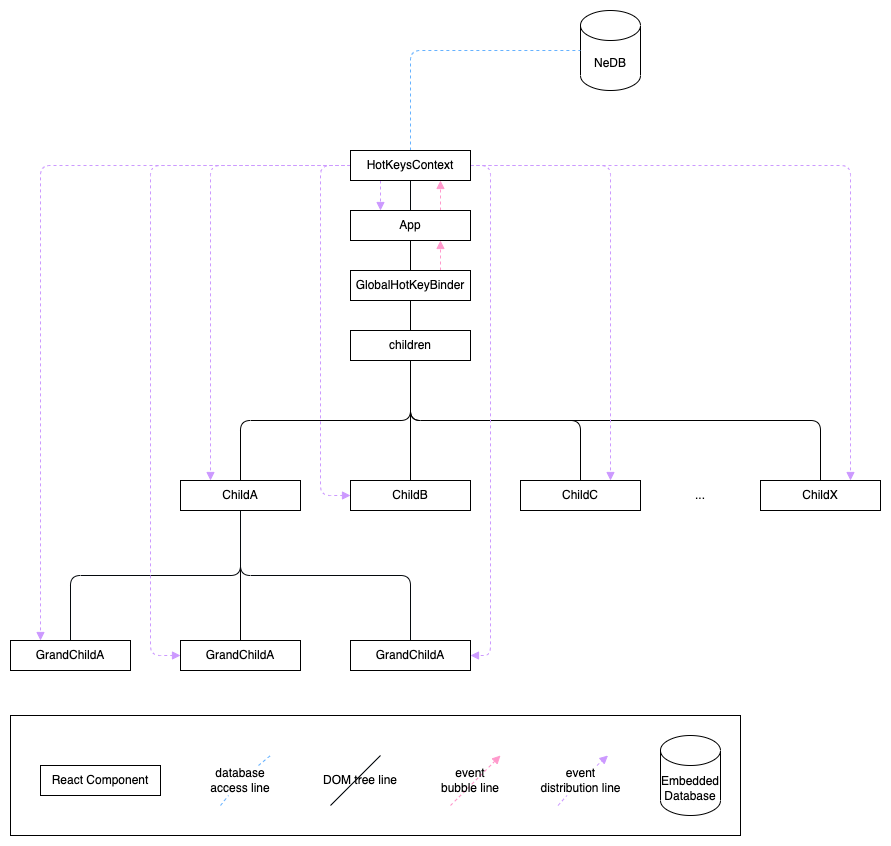
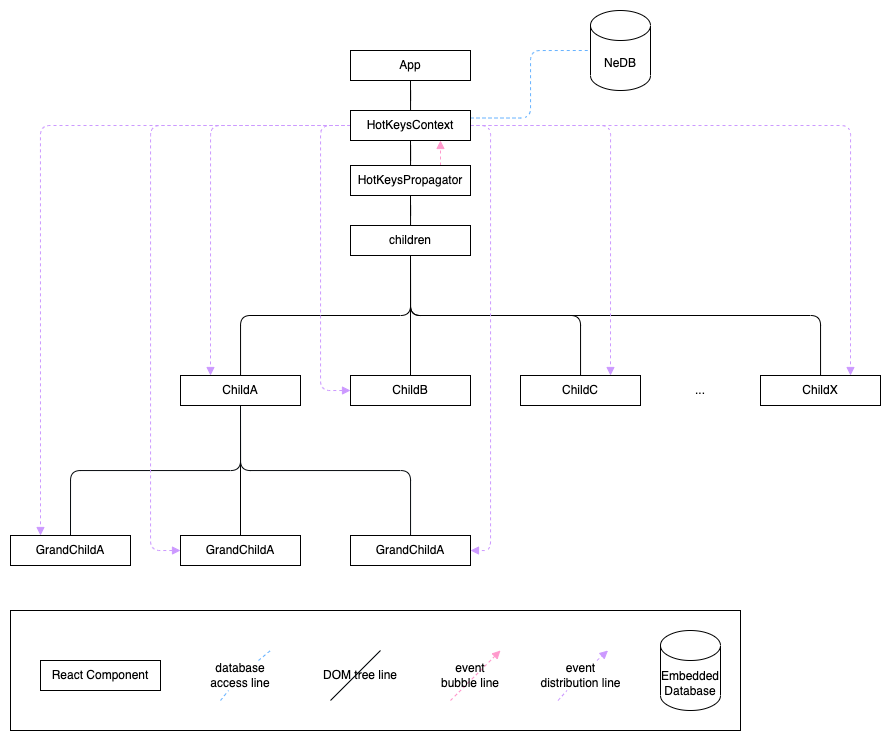
add changes

diff --git a/hotkey-event-delegation/design/README.md b/hotkey-event-delegation/design/README.md
@@ -1,0 +1,264 @@
+# [Spec] Insomnia Desktop Hotkey Event Delegation
+* Status: [drafted]
+
+## Table of Content
+* [[Spec] Insomnia Desktop Hotkey Event Delegation](#insomnia-desktop-hotkey-event-delegation)
+* [Table of Content](#table-of-content)
+  * [Overview](#context-and-problem-statement)
+    * [Summary](#context)
+    * [High Level Diagram](#problem-statement)
+  * [Implementation](#decision-drivers)
+    * [Event Capturing](#context)
+    * [Event Propagation](#context)
+    * [Event Listening](#context)
+  * [Rollout Plan](#non-goals)
+    * [Phase 1](#context)
+    * [Phase 2](#context)
+    * [Phase 3](#context)
+    * [Phase 4](#context)
+
+## Overview
+
+### Summary
+This design is to allow the Insomnia Client to propagate a custom event after keydown event is captured in the document.body and to distribute the custom event from *top to bottom* for hotkey execution in any component that needs to act on it.
+
+### High Level Diagram
+![plot](../option-1-diagram.png)
+
+## Implementation
+
+This implementation may need three components to achieve the custom event distribution; DOM event capturing, custom event propagation, and its listening, somewhat similar to the DOM event phases.
+
+It was intended to use React Context API to enforce top to bottom data flush.
+
+### DOM Event Capturing
+This part is to capture the keydown event globally (or to some degree of top level). It seems necessary to keep a DOM keydown listener, but let's limit to one instead of having multiple unlike the current implementation.
+
+A React component, ```<HotKeysPropagator />```, adds keydown event listener to body (or we can add it to the top DOM element of the node instead).
+
+As the name of the component describes, this propagates a hotkey custom event through its Context.
+
+```js
+<HotKeysProvider>
+  <HotKeysPropagator>
+    {children}
+  </HotKeysPropagator>
+</HotKeysProvider>
+```
+
+### Custom Event Propagation
+```<HotKeysProvider />``` creates an EventEmitter, ```$hotkeyChannel``` and provides a channel to publish and subscribe this emitter. This Context provides two methods for its consumer to use; checkHotkeyPressed and sendHotkeyCommand.
+
+Methods | Description
+--- | ---
+checkHotkeyPressed | checks if the pressed key combination is valid
+sendHotkeyCommand | emits a custom event with hotkey id (possibly can add conditions here too) via ```EventEmitter``` that is created in ```<HotKeysContext />```
+
+However, note that the event emitter will not be directly exposed through ```useContext(HotKeysContext)``` in order to control event emitting only via the Context method.
+
+### Custom Event Listening
+Now, let's hook up the components with hotkeys. It seems that in the current implementation, there are two use cases of hotkey executions; single hotkey per component or multiple hotkeys in a component.
+
+To make it consistent with Context and consumable, custom hooks are created to listen to the custom event and executes the hotkey callbacks.
+#### Single Hotkey
+A single component is listening to a single hot key. This has been the primary pattern observed like the below:
+
+```js
+class SomeExampleComponent extends PureComponent<Props, State> {
+  _handleKeyDown(e) {
+    e.stopPropagation();
+    executeHotKey(event, hotKeyRefs.REQUEST_FOCUS_URL, () => {
+      // Do something like the below:
+      // this._input?.focus();
+      // this._input?.selectAll();
+    });
+  }
+
+  render () {
+    return (
+      <KeyDownBinder onKeyDown={this._handleKeyDown}>
+        <div>actual component tree comes here</div>
+      </KeyDownBinder>
+    );
+  }
+}
+```
+
+Instead of the above, we can do something like the following:
+```js
+const SomeExampleComponent: FunctionComponent<Props> = () => {
+  useHotKeyEffect(() => {
+    // Do some stuff here instead
+  }, hotKeyRefs.REQUEST_FOCUS_URL.id);
+
+  return <div>actual component tree comes here</div>;
+};
+```
+
+#### Multiple Hotkeys
+Currently, ```<App />``` component handles several hotkey executions with another ```<KeydownBinder />``` with its callback like the following:
+```js
+class App extends PureComponent<Props, State> {
+  async componentDidMount() {
+    this._setGlobalKeyMap();
+  }
+
+  _setGlobalKeyMap() {
+    this._globalKeyMap = [
+      [
+          hotKeyRefs.PREFERENCES_SHOW_GENERAL,
+          () => {
+          App._handleShowSettingsModal();
+          },
+      ],
+      [
+        hotKeyRefs.PREFERENCES_SHOW_KEYBOARD_SHORTCUTS,
+        () => {
+          App._handleShowSettingsModal(TAB_INDEX_SHORTCUTS);
+        },
+      ],
+      // ...other iterms continue
+    ]
+  }
+
+  _handleKeyDown() {
+    for (const [definition, callback] of this._globalKeyMap) {
+      executeHotKey(event, definition, callback);
+    }
+  }
+
+  render() {
+    return (
+      <KeydownBinder onKeydown={this._handleKeyDown}>
+        <GrpcProvider>
+          <NunjucksEnabledProvider>
+            <AppHooks />
+            <div>actual app content</div>
+          </NunjucksEnabledProvider>
+        </GrpcProvider>
+      </KeydownBinder>
+    );
+  }
+}
+```
+
+
+This pattern requires us to handle multiple hot keys in a single component, which can be handled like the below:
+```ts
+const App: FunctionComponent<Props> = ({ children }) => {
+  const handleHotkeyByCase = (hotkeyId: string) => {
+    switch(hotkey) {
+      case hotKeyRefs.PREFERENCES_SHOW_GENERAL.id: {
+        // do something
+        return;
+      }
+
+      case hotKeyRefs.PREFERENCES_SHOW_KEYBOARD_SHORTCUTS.id: {
+        // do something
+        return;
+      }
+    }
+  };
+
+  useHotKeysEffect((hotkeyId: string) => {
+    handleHotkeyByCase(hotkeyId);
+  }, [
+    hotKeyRefs.PREFERENCES_SHOW_GENERAL.id,
+    hotKeyRefs.PREFERENCES_SHOW_KEYBOARD_SHORTCUTS.id
+  ]);
+
+  return (
+    <GrpcProvider>
+      <NunjucksEnabledProvider>
+        <AppHooks />
+        <div>actual app content</div>
+      </NunjucksEnabledProvider>
+    </GrpcProvider>
+  );
+};
+```
+
+However, the above implementation is not immediately possible due to the tech debt, so workaround needs to be done with rollout plans.
+
+## Rollout Plan
+### Phase 1 - Add Playwright tests for each hot key operation
+It is critical to keep the state of our current Insomnia as is unless improved. Therefore, it's important to increase test coverage in every hotkey execution case to detect if there will be any bug arisen from refactoring.
+
+### Phase 2 - Add HotKeysContext, HotKeysPropagator, HotKeysExecutor and hooks for replacing the KeyDownBinder and executeCallback
+Once we have the test coverage, we will implement HotKeysContext and its modular parts (HotKeysPropagator and hooks). However, this is not immediately possible without workaround solutions due to the prevalent paterns of using PureComponent as Class components.
+
+The proposal for workaround would be to create wrapper Functional components around the pure compnents.
+
+* for multiple hotkeys, we would need to create something like ```<HotKeysExecutor />``` to wrap the chidlren within ```<App />``` to invoke multiple hot key callbacks in functional manner.
+```ts
+type KeyOfHotKeys = keyof typeof hotKeyRefs;
+type HotKeysExecutionMap = Map<KeyOfHotKeys, () => void>;
+interface Props {
+  children?: ReactNode;
+  keysMap: HotKeysExecutionMap;
+}
+
+// TODO: This component should be removed when the app component becomes a functional component.
+const HotkeysExecutor: FunctionComponent<Props> = ({ children, keysMap }) => {
+  useHotKeysEffect((hotkeyId: string) => {
+    keysMap.get(hotkeyId)?.();
+  }, [
+    hotKeyRefs.PREFERENCES_SHOW_GENERAL.id,
+    hotKeyRefs.PREFERENCES_SHOW_KEYBOARD_SHORTCUTS.id
+  ]);
+
+  return <>{children}</>;
+};
+
+class App extends PureComponent<Props, State> {
+  async componentDidMount() {
+    this._setGlobalKeyMap();
+  }
+
+  _setGlobalKeyMap() {
+    const keysMap = new Map([
+      [
+        hotKeyRefs.PREFERENCES_SHOW_GENERAL.id,
+        () => {
+          App._handleShowSettingsModal();
+        },
+      ],
+      [
+        hotKeyRefs.PREFERENCES_SHOW_KEYBOARD_SHORTCUTS.id,
+        () => {
+          App._handleShowSettingsModal(TAB_INDEX_SHORTCUTS);
+        },
+      ],
+      // ...other keys continue here
+    ]);
+
+    this.setState({ keysMap });
+  }
+
+  render() {
+    return (
+      <HotKeysProvider hotKeyRegistry={this.props.settings.hotKeyRegistry}>
+        <GrpcProvider>
+          <NunjucksEnabledProvider>
+            <AppHooks />
+            <HotKeysPropagator>
+              <div>actual app content</div>
+            </HotKeysPropagator>
+            <HotkeysExecutor keysMap={this.state.keysMap} />
+          </NunjucksEnabledProvider>
+        </GrpcProvider>
+      </HotKeysProvider>
+    );
+  }
+}
+```
+* for single hotkey, we should create a wrapper Functional component to the original PureComponent.
+
+This strategy will help us start decoupling components from the hierarchical relation tangled by calling children methods imperatively by hotkeys (most prevalent in the ```<App />``` component and other wrapper of wrapper components). This will allow us to reimplement the hotkey execution with Functional components immediately and migrate PureComponent into Functional ones over time.
+
+### Phase 3 - Migrate all the functional component workaround for pure component classes and remove HotKeysExecutor and remove the noise
+This phase would be to get rid of all the wrapper components and turn these PureComponents into FunctionalComponents and use React.meno ONLY if needed.
+<!-- markdownlint-disable-file MD013 -->
+
+
+

diff --git a/hotkey-event-delegation/README.md b/hotkey-event-delegation/README.md
@@ -13,6 +13,7 @@
   * [Decision Outcome](#decision-outcome)
     * [Positive Consequences](#positive-consequences)
     * [Negative Consequences](#negative-consequences)
+    * [Rollout](#positive-consequences)
   * [Pros and Cons of the Options](#pros-and-cons-of-the-options)
     * [Option 1](#option-1)
     * [Option 2](#option-2)
@@ -23,23 +24,24 @@
 ### Context
 Insomnia Desktop client supports hotkey commands to control the behaviors of the applications listed out here. Currently, the hotkey operation works by,
 
-1. propagate the keydown event from [<KeyDownBinder />](https://github.com/Kong/insomnia/blob/40af38c3b9711ff6ba4ab647be08765a0aeefeab/packages/insomnia/src/ui/components/keydown-binder.ts#L17) to the destination component
+1. propagate the keydown event from [<KeyDownBinder />](https://github.com/Kong/insomnia/blob/40af38c3b9711ff6ba4ab647be08765a0aeefeab/packages/insomnia/src/ui/components/keydown-binder.ts#L17) to the destination component with an option to stop the propagation
 2. [read](https://github.com/Kong/insomnia/blob/40af38c3b9711ff6ba4ab647be08765a0aeefeab/packages/insomnia/src/common/hotkeys-listener.ts#L35) the [NeDB](https://github.com/louischatriot/nedb) database to check if the key combination exists as a registered hotkey (every key stroke triggers this)
 3. execute the callback function to act on the hotkey command in the destination component
 
 ![plot](./current-diagram.png)
 
-This pattern has created complications when any scoping of a keydown event is required to control a specific component. For instance, [the event stream is blocked in the RequestUrlBar component tree to bubble form submission events by pressing the “Enter” key due to scoping](https://github.com/Kong/insomnia/issues/4743).
-
 ### Problem Statement
 
-The bottom-to-top way of current hotkey operation flow has created complications and [repeated bugs](https://github.com/Kong/insomnia/issues?q=is%3Aissue+hotkey+is%3Aclosed+bug+), and this may need another attention to revisit the current hotkey operation flow.
+The currrent pattern may work generally fine when the keydown event scope is not limited. However, it creates complications when event propagation is stopped and event is scoped to a child DOM tree.
+
+This [issue]((https://github.com/Kong/insomnia/issues?q=is%3Aissue+hotkey+is%3Aclosed+bug+)) exemplifies such complication. As issues have appeared several times already, it may need another attention to revisit the current hotkey operation flow.
 
 ## Decision Drivers
 
 * The Keyboard, ‘keydown’, event bubble/propagation needs to be completely separated from hotkey command event propagation
 * The hotkey command event needs to be distributed from the top to the bottom and selectively listened in where a hotkey operation actually targets
 * NeDB database should be read only once unless its modification happens
+* Slight performance enhancement can be expected as the current implementation registers keydown event listeners to several DOM elements and reads NeDB every key stroke
 
 ## Non-goal
 * can help converting class components into functional components, but that is not the goal for this work.
@@ -68,6 +70,14 @@ Chosen option: "option 1", because
 * requires more time in development; higher test coverage before implementing this option and more refactoring of React components
 * leaves workaround pattern of wrapping a class component with react component to achieve the same imperative operation to control child component using ref objects
 * requires strong willingness and time allocation to clean up workaround pattern
+* despite successful removal of execessive DOM event listeners, it adds several EventEmitter listeners. However, this implementation only requires one keydown listener to one DOM element and EventEmitter listeners are registered to the same source, which may make a difference
+
+### Rollout
+Phase | Execution
+--- | ---
+1 | Add Playwright tests for each hot key operation
+2 | Add HotKeysContext, HotKeysPropagator, HotKeysExecutor and hooks for replacing the KeyDownBinder and executeCallback
+3 | Migrate all the functional component workaround for pure component classes and remove HotKeysExecutor and remove the noise
 
 ## Pros and Cons of the Options
 ### Option 1
